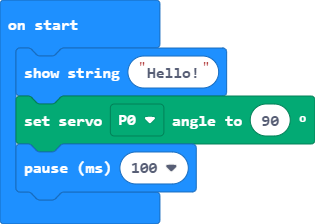
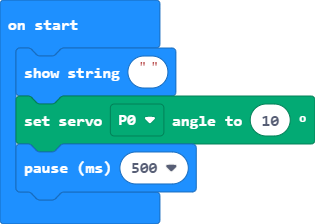
change default to 500ms

Changed region(s): [[0.4286, 0.1875, 0.7429, 0.4375], [0.4, 0.7188, 0.4571, 0.7812], [0.8286, 0.5, 0.8571, 0.5625]]

diff --git a/main.ts b/main.ts
@@ -1,3 +1,3 @@
 basic.showString("")
 servos.P0.setAngle(10)
-basic.pause(100)
+basic.pause(500)
